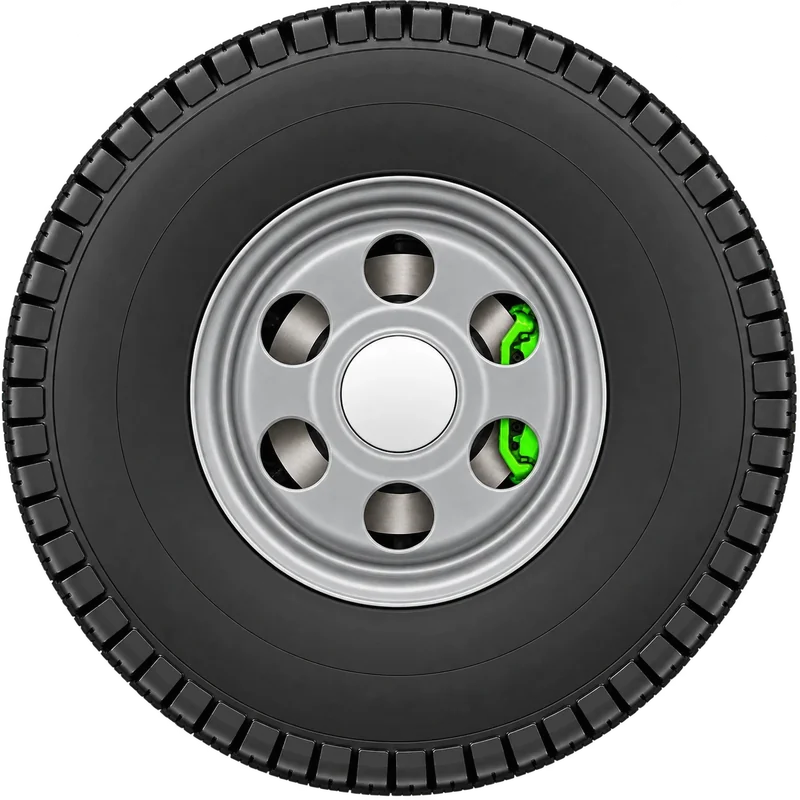
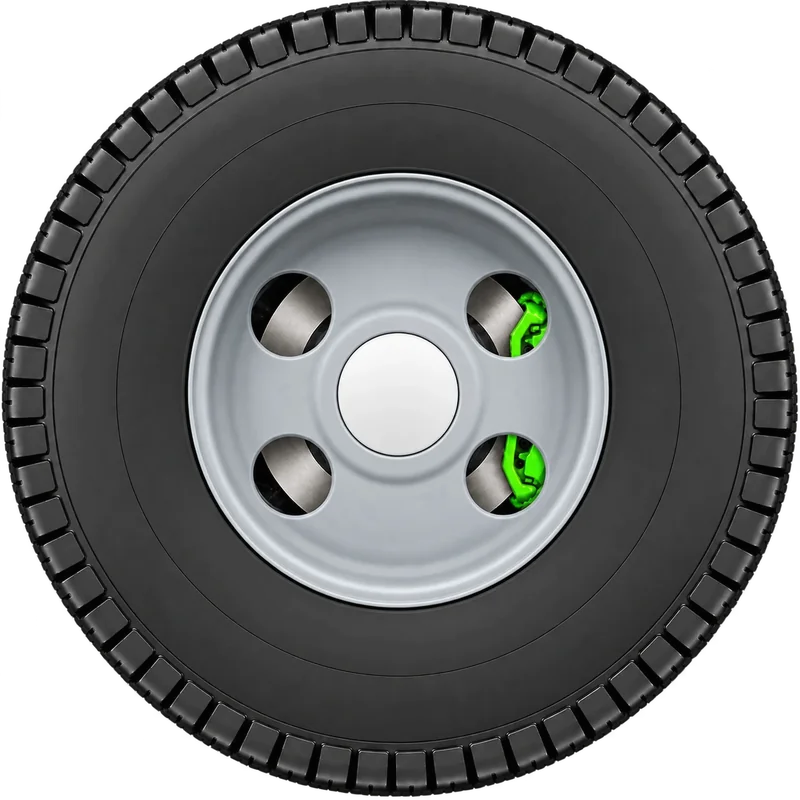
Reifenwechsel: neues Movano-Rad im Stil einer LKW-Stahlfelge

diff --git a/autohaus-boxenstopp/spiel.js b/autohaus-boxenstopp/spiel.js
@@ -28,7 +28,8 @@
       bild: 'bilder/rad-6.webp', nabe: 0.19, lochkreis: 0.31, mutter: 0.055, versatz: Math.PI / 6, merken: 1, schwingen: [0.06, 2.1] },
     // Runde 7 (Nutzer, 18.10.2026): Movano – größtes Rad (225/75 R16 auf Stahlfelge), dreht schneller, wechselt öfter die Richtung
     { name: 'Großer Transporter', muttern: 6, dreh: 1.6, groesse: 1.03, felge: 0.56, tipps: 2, wechsel: 1.6, farbe: ['#c9ced4', '#9aa1a9', '#626971'],
-      bild: 'bilder/rad-7.webp', nabe: 0.155, lochkreis: 0.3, mutter: 0.05, versatz: Math.PI / 6, merken: 1, schwingen: [0.09, 2.6] },
+      bild: 'bilder/rad-7.webp', nabe: 0.16, lochkreis: 0.21, mutter: 0.045, versatz: 0,   // LKW-Stahlfelge: Muttern eng um die Nabe, 4 Lüftungslöcher außen (Nutzer, 18.10.2026)
+      merken: 1, schwingen: [0.09, 2.6] },
   ];
   // Eigene Fahrzeugnamen aus kunde.js (z. B. Modelle der Marke des Autohauses)
   (R_.kunde.fahrzeuge || []).forEach((n, i) => { if (RAEDER[i] && n) RAEDER[i].name = n; });
